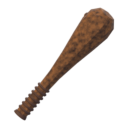
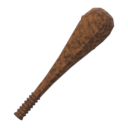
Build from 57c6c40

diff --git a/src/items.js b/src/items.js
@@ -154,7 +154,8 @@ export class WorldItems {
     tex.minFilter = real ? THREE.LinearMipmapLinearFilter : THREE.NearestFilter;
     tex.colorSpace = THREE.SRGBColorSpace;
     const spr = new THREE.Sprite(new THREE.SpriteMaterial({ map: tex, fog: true, alphaTest: real ? 0.4 : 0 }));
-    const big = real ? 0.34 + 0.1 * Math.min(3, item.def.size || 1) : 0.46;       // bigger things look bigger
+    // bigger things look bigger; a long thing gives the size of its picture in metres as "floor"
+    const big = item.def.floor || (real ? 0.34 + 0.1 * Math.min(3, item.def.size || 1) : 0.46);
     const y = this.level.floorAt(x, z) + big * 0.5;
     spr.scale.set(big, big, 1);
     spr.position.set(x, y, z);

diff --git a/src/props.js b/src/props.js
@@ -74,7 +74,7 @@ function clay() {
   return t;
 }
 
-const REMAINS = { bones: ['bone_guard_dead', 1.85], jackal: ['jackal_dead', 1.9] };      // picture, and how tall its whole frame stands
+const REMAINS = { bones: ['bone_guard_dead', 3.1], jackal: ['jackal_dead', 1.9] };      // picture, and how tall its whole frame stands
 
 // Builds (or builds again, after it is smashed) the meshes of one urn.
 function shape(u) {
